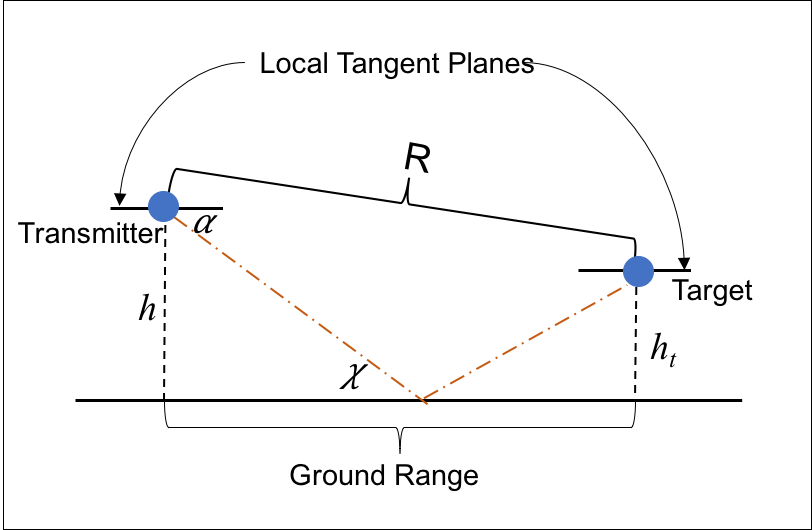
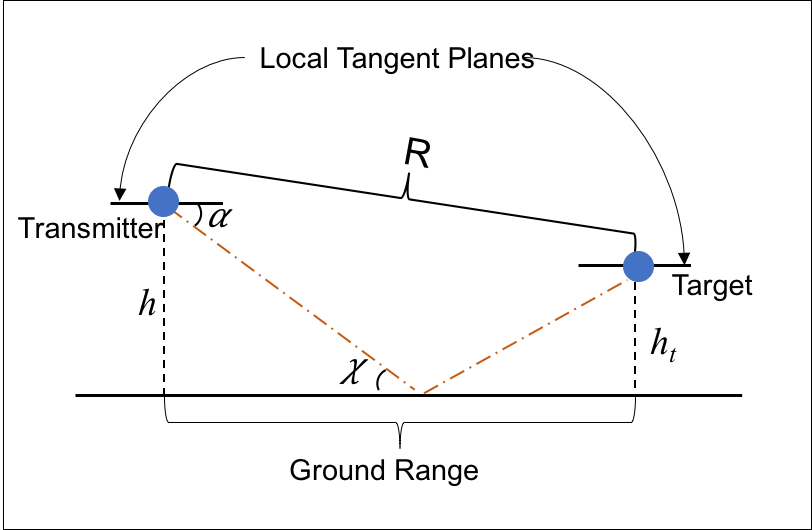
adding multipath

diff --git a/src/RF_environmental_impacts.tex b/src/RF_environmental_impacts.tex
@@ -80,6 +80,27 @@ Because an electromagnetic wave consists of a finite bundle of rays rather than 
 Multipath refers to reflections from the surface of the earth resulting in many paths between the transmitter and the target. When these paths are in phase, the signal at the target is amplified. When these paths are out of phase, the signal is reduced and referred to as a multipath null.
 
 \subsection{2-Ray Model}
+The 2-Ray Model for multipath is shown in Figure \ref{env_fig:2a}, using a flat earth geometry to simplify the explanation. In this model, the two rays are the direct path from the transmitter to the target and a single multipath bounce from the surface between the transmitter and target.
+\begin{figure}[H]
+  \begin{center}
+\includegraphics[width=4in]{../media/multistatic/two_ray_multipath_model.png}
+  \end{center}
+  \renewcommand{\baselinestretch}{1} \small\normalsize
+  \begin{quote}
+    \caption[Two Ray Multipath Model]{Two Ray Multipath Model\label{env_fig:2a}}
+  \end{quote}
+\end{figure}
+\renewcommand{\baselinestretch}{2} \small\normalsize
+The sea surface is characterized by its dielectric constant, $\epsilon_r$ and the height variance, $\sigma_h$, and will have a reflection coefficient, $\Gamma_t$. We can characterize the multipath ray by using the image of the target.
+
+Following \cite{lohrmann_rcs}, we can use superposition and express the combination of the rays as a propagation factor, $F_p$:
+  \begin{equation}
+  \label{env_eq:3b}
+F_p = e^{jkr_1} + \Gamma_te^{jk\left(r_2 + r_3\right)}
+\end{equation}
+
+In both expressions, the result is dependent on the phase difference between the path distances $r_1$ and $r_2 + r_3$. This means we will have a multipath null (destructive interference) whenever $r_1 = 2m\pi(r_2 + r_3)$ and we will have a multipath peak (constructive interference) whenever $r_1 = (2m+1_\pi\lambda(r2+ r_3)$.
+
 \subsection{Reflection Coefficient}
 From \cite{miller_reflection}, we can express the rough sea surface reflection coefficient, $\rho$, by Equation \ref{env_eq:4}. 
   \begin{equation}
